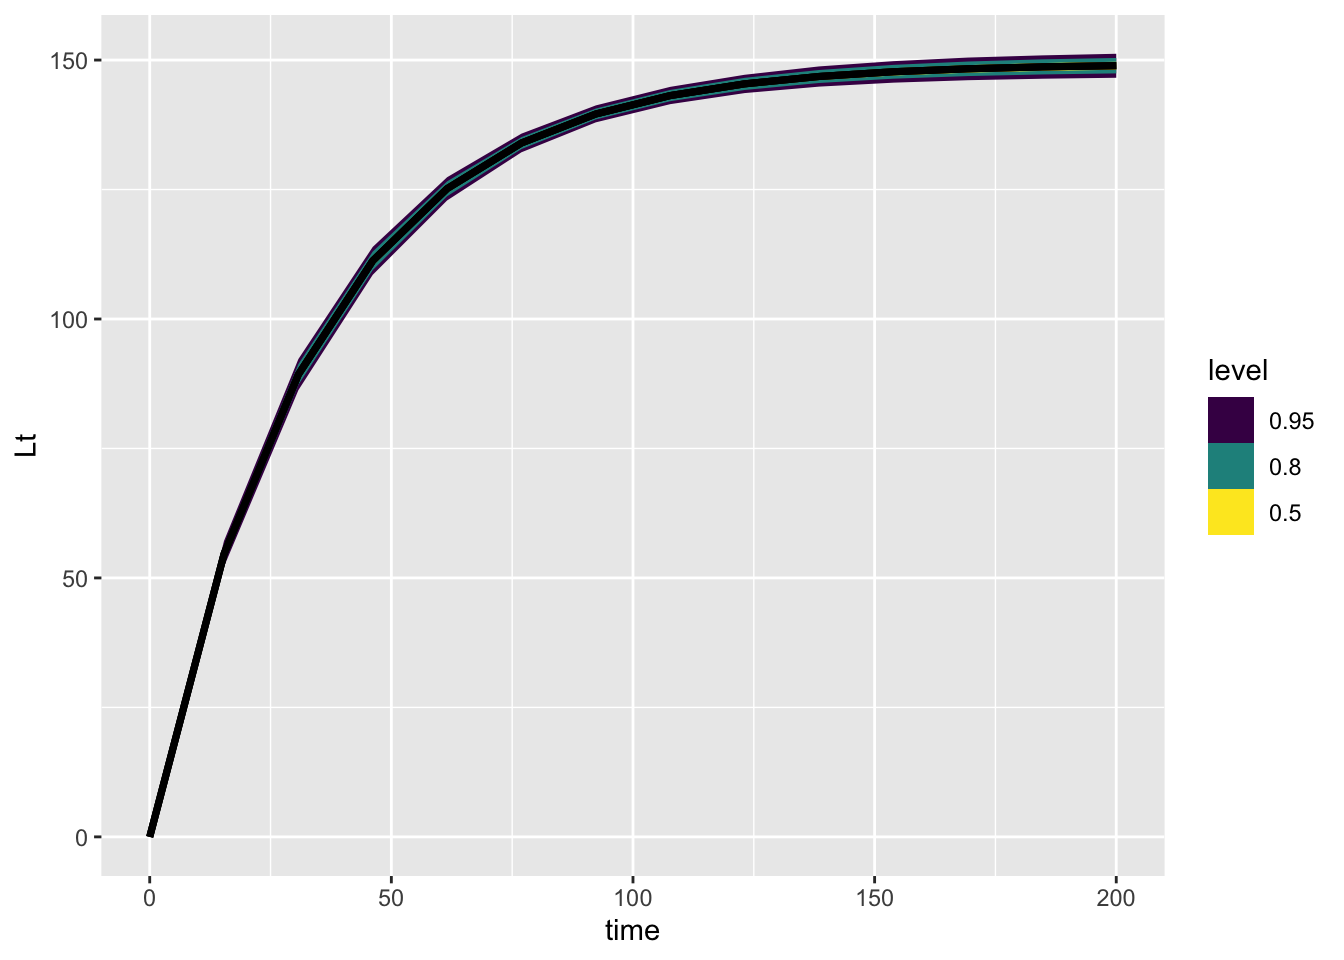
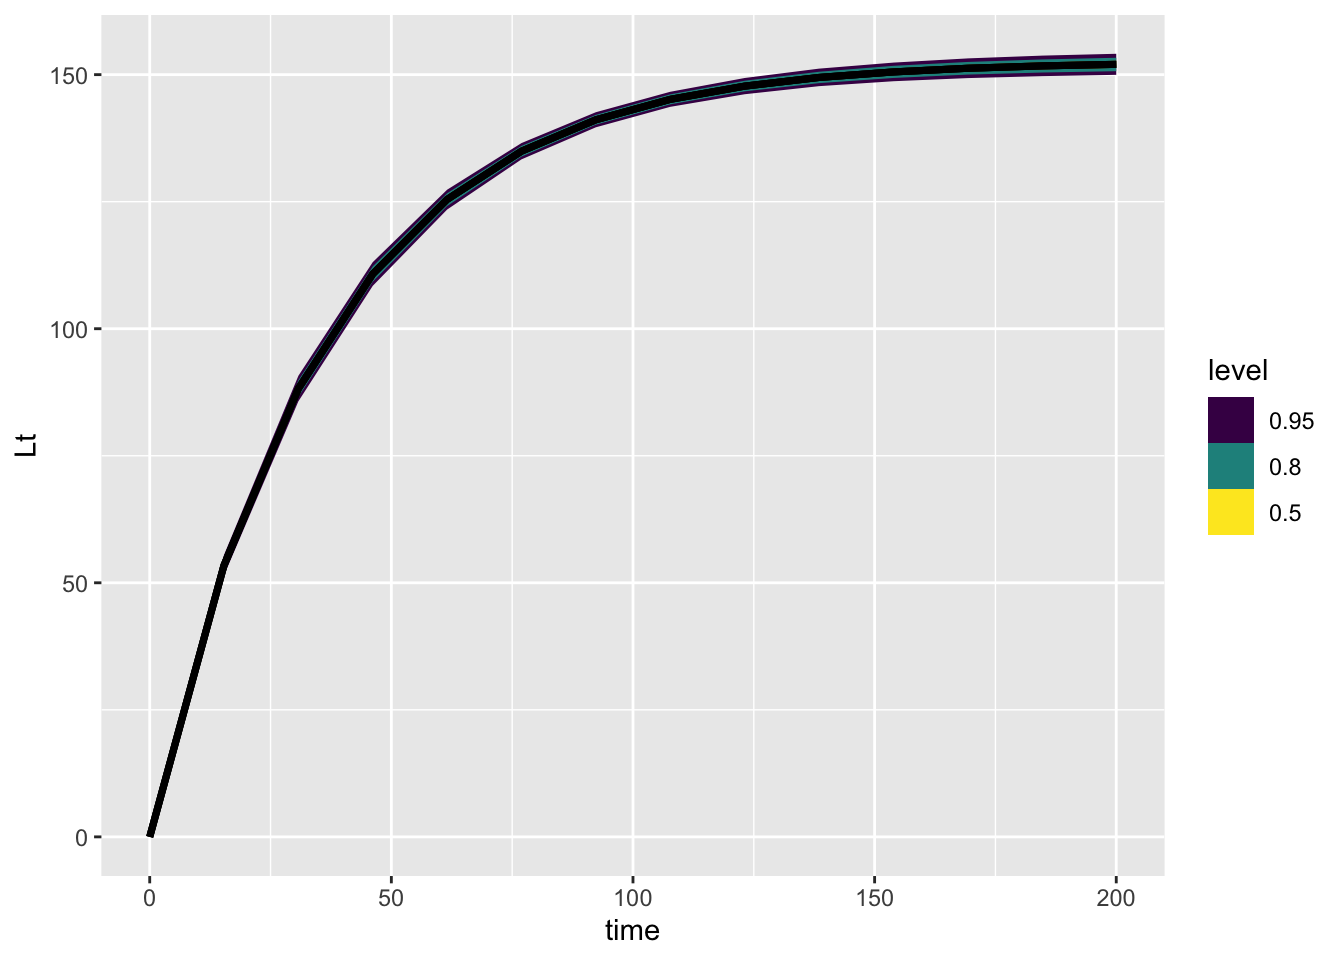
update le site

diff --git a/docs/posts/growth_curve_measurement_error/index.html b/docs/posts/growth_curve_measurement_error/index.html
@@ -9,7 +9,7 @@
 <meta name="author" content="Andrew">
 <meta name="dcterms.date" content="2022-10-14">
 
-<title>Hello Quarto and Targets - Growth curves</title>
+<title>Andrew MacDonald - Growth curves</title>
 <style>
 code{white-space: pre-wrap;}
 span.smallcaps{font-variant: small-caps;}
@@ -137,7 +137,7 @@ code span.wa { color: #60a0b0; font-weight: bold; font-style: italic; } /* Warni
       <div class="navbar-container container-fluid">
       <div class="navbar-brand-container">
     <a class="navbar-brand" href="../../index.html">
-    <span class="navbar-title">Hello Quarto and Targets</span>
+    <span class="navbar-title">Andrew MacDonald</span>
     </a>
   </div>
           <button class="navbar-toggler" type="button" data-bs-toggle="collapse" data-bs-target="#navbarCollapse" aria-controls="navbarCollapse" aria-expanded="false" aria-label="Toggle navigation" onclick="if (window.quartoToggleHeadroom) { window.quartoToggleHeadroom(); }">
@@ -146,7 +146,7 @@ code span.wa { color: #60a0b0; font-weight: bold; font-style: italic; } /* Warni
           <div class="collapse navbar-collapse" id="navbarCollapse">
             <ul class="navbar-nav navbar-nav-scroll ms-auto">
   <li class="nav-item">
-    <a class="nav-link" href="../../blog.html">Ecological Data Simulations</a>
+    <a class="nav-link" href="../../blog.html">The Study of the Household</a>
   </li>  
   <li class="nav-item compact">
     <a class="nav-link" href="https://github.com/aammd"><i class="bi bi-github" role="img">
@@ -291,20 +291,20 @@ L_t = L_\infty - (L_\infty - L_0)e^{-rt}
 
 Chain 1 finished in 0.1 seconds.
 Chain 2 finished in 0.2 seconds.
-Chain 3 finished in 0.2 seconds.
-Chain 4 finished in 0.2 seconds.
+Chain 3 finished in 0.1 seconds.
+Chain 4 finished in 0.1 seconds.
 
 All 4 chains finished successfully.
-Mean chain execution time: 0.2 seconds.
-Total execution time: 0.5 seconds.</code></pre>
+Mean chain execution time: 0.1 seconds.
+Total execution time: 0.4 seconds.</code></pre>
 </div>
 <div class="sourceCode cell-code" id="cb7"><pre class="sourceCode r code-with-copy"><code class="sourceCode r"><span id="cb7-1"><a href="#cb7-1" aria-hidden="true" tabindex="-1"></a>one_tree_post</span></code><button title="Copy to Clipboard" class="code-copy-button"><i class="bi"></i></button></pre></div>
 <div class="cell-output cell-output-stdout">
 <pre><code>  variable   mean median   sd  mad     q5    q95 rhat ess_bulk ess_tail
- lp__      -84.63 -84.29 1.29 1.02 -87.22 -83.25 1.00     1778     2461
- r           0.03   0.03 0.00 0.00   0.03   0.03 1.00     2378     2465
- Lmax      149.32 149.33 1.22 1.19 147.28 151.35 1.00     2534     2339
- sigma_obs   4.79   4.74 0.52 0.49   4.02   5.71 1.00     2578     2505</code></pre>
+ lp__      -78.81 -78.47 1.29 1.03 -81.30 -77.42 1.00     1630     2229
+ r           0.03   0.03 0.00 0.00   0.03   0.03 1.00     1623     2055
+ Lmax      152.60 152.60 1.11 1.08 150.79 154.45 1.00     1894     2022
+ sigma_obs   4.24   4.20 0.47 0.46   3.55   5.07 1.00     2237     2174</code></pre>
 </div>
 </div>
 <p>plot it</p>

diff --git a/docs/posts/probability-integral-transform/index.html b/docs/posts/probability-integral-transform/index.html
@@ -9,7 +9,7 @@
 <meta name="author" content="Andrew">
 <meta name="dcterms.date" content="2022-10-23">
 
-<title>Hello Quarto and Targets - Probability integral transforms</title>
+<title>Andrew MacDonald - Probability integral transforms</title>
 <style>
 code{white-space: pre-wrap;}
 span.smallcaps{font-variant: small-caps;}
@@ -136,7 +136,7 @@ code span.wa { color: #60a0b0; font-weight: bold; font-style: italic; } /* Warni
       <div class="navbar-container container-fluid">
       <div class="navbar-brand-container">
     <a class="navbar-brand" href="../../index.html">
-    <span class="navbar-title">Hello Quarto and Targets</span>
+    <span class="navbar-title">Andrew MacDonald</span>
     </a>
   </div>
           <button class="navbar-toggler" type="button" data-bs-toggle="collapse" data-bs-target="#navbarCollapse" aria-controls="navbarCollapse" aria-expanded="false" aria-label="Toggle navigation" onclick="if (window.quartoToggleHeadroom) { window.quartoToggleHeadroom(); }">
@@ -145,7 +145,7 @@ code span.wa { color: #60a0b0; font-weight: bold; font-style: italic; } /* Warni
           <div class="collapse navbar-collapse" id="navbarCollapse">
             <ul class="navbar-nav navbar-nav-scroll ms-auto">
   <li class="nav-item">
-    <a class="nav-link" href="../../blog.html">Ecological Data Simulations</a>
+    <a class="nav-link" href="../../blog.html">The Study of the Household</a>
   </li>  
   <li class="nav-item compact">
     <a class="nav-link" href="https://github.com/aammd"><i class="bi bi-github" role="img">

diff --git a/docs/posts/demo-post/index.html b/docs/posts/demo-post/index.html
@@ -9,7 +9,7 @@
 <meta name="author" content="Andrew">
 <meta name="dcterms.date" content="2022-10-05">
 
-<title>Hello Quarto and Targets - Exponential change</title>
+<title>Andrew MacDonald - Exponential change</title>
 <style>
 code{white-space: pre-wrap;}
 span.smallcaps{font-variant: small-caps;}
@@ -137,7 +137,7 @@ code span.wa { color: #60a0b0; font-weight: bold; font-style: italic; } /* Warni
       <div class="navbar-container container-fluid">
       <div class="navbar-brand-container">
     <a class="navbar-brand" href="../../index.html">
-    <span class="navbar-title">Hello Quarto and Targets</span>
+    <span class="navbar-title">Andrew MacDonald</span>
     </a>
   </div>
           <button class="navbar-toggler" type="button" data-bs-toggle="collapse" data-bs-target="#navbarCollapse" aria-controls="navbarCollapse" aria-expanded="false" aria-label="Toggle navigation" onclick="if (window.quartoToggleHeadroom) { window.quartoToggleHeadroom(); }">
@@ -146,7 +146,7 @@ code span.wa { color: #60a0b0; font-weight: bold; font-style: italic; } /* Warni
           <div class="collapse navbar-collapse" id="navbarCollapse">
             <ul class="navbar-nav navbar-nav-scroll ms-auto">
   <li class="nav-item">
-    <a class="nav-link" href="../../blog.html">Ecological Data Simulations</a>
+    <a class="nav-link" href="../../blog.html">The Study of the Household</a>
   </li>  
   <li class="nav-item compact">
     <a class="nav-link" href="https://github.com/aammd"><i class="bi bi-github" role="img">
